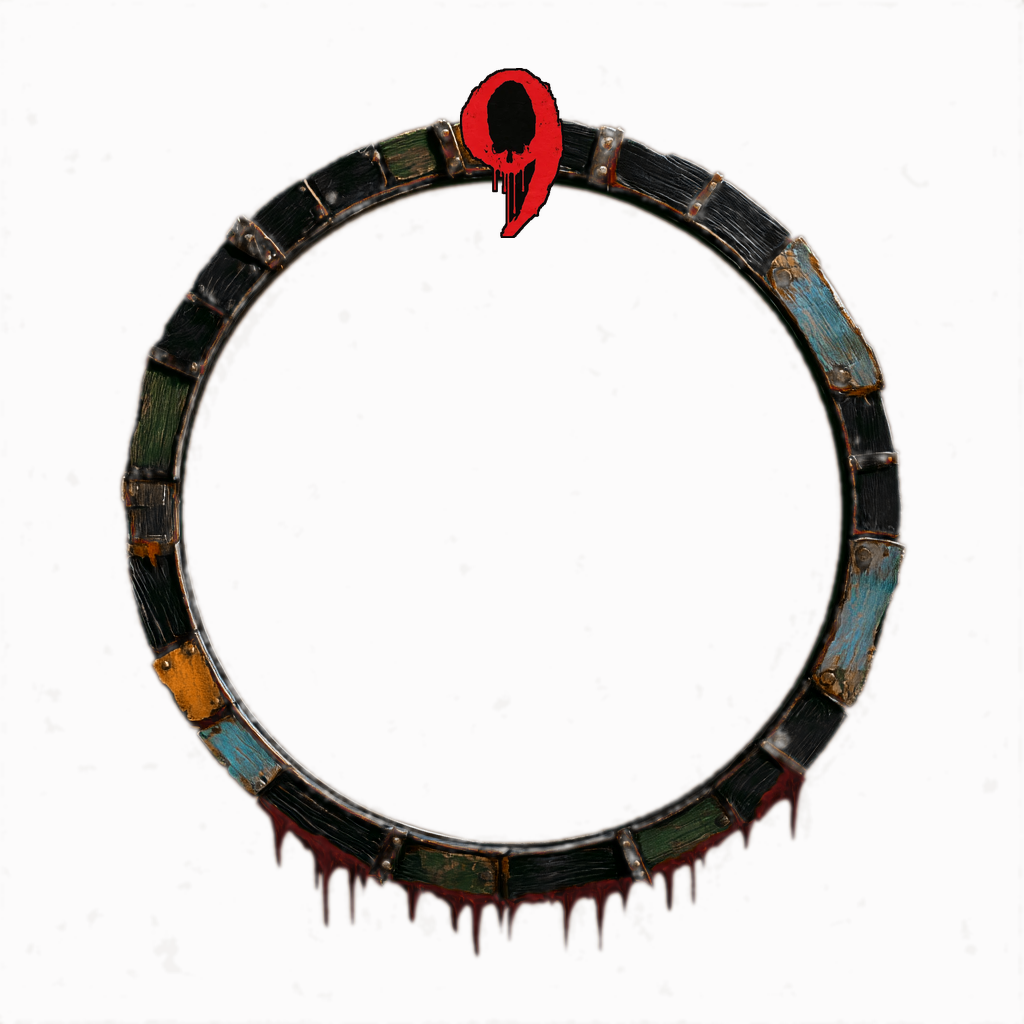
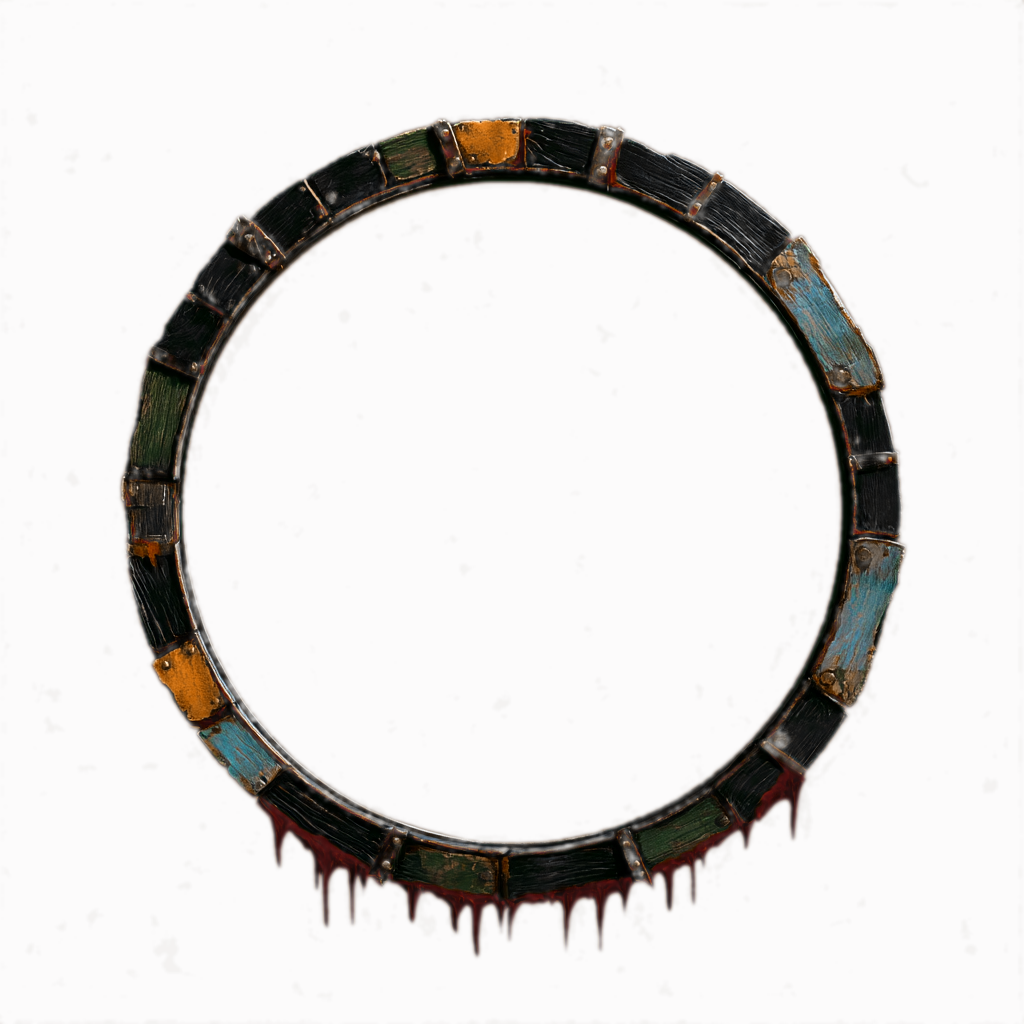
Ninehulls' token frame: the nine comes off again; the bare Midjourney ring

Changed region(s): [[0.4375, 0.0625, 0.5625, 0.25]]

diff --git a/tools/token-frames/README.md b/tools/token-frames/README.md
@@ -42,7 +42,7 @@ magenta, nothing else.*
 | `brood` | monster | spiders — chitin, web, violet egg-glow |
 | `redsail` | crew | Redsail's poacher crew (*The Unspent*) — frayed blood-red sailcloth, black rope, black skull, crossed cutlasses; Midjourney, painted |
 | `veldtmark` | household | the Veldtmark estate (*The Veldtmark Invitation*) — rope, cargo crates, wax seal, Bikiargi crescents; Midjourney, painted |
-| `ninehulls` | crew | Ninehulls' crew (*The Unspent*) — black planking patched in other ships' colours, iron rivets, red drips below; the red nine from his flag (`published/gm-notes/short-notice/quest-the-unspent/art/ninehulls-flag.webp`) set on top by hand, since Midjourney would not draw it. `ninehulls-ring.png` is the bare ring; the nine goes on **after** `prep`, because its red sits inside the magenta key; Midjourney, painted |
+| `ninehulls` | crew | Ninehulls' crew (*The Unspent*) — black planking patched in other ships' colours, iron rivets, red drips below; Midjourney, painted |
 | `sable-rei` | faction | the Sable-rei (Millhaven & *Below the Quiet Docks*) — fox + theatrical-mask |
 
 ## Authoring a new frame
